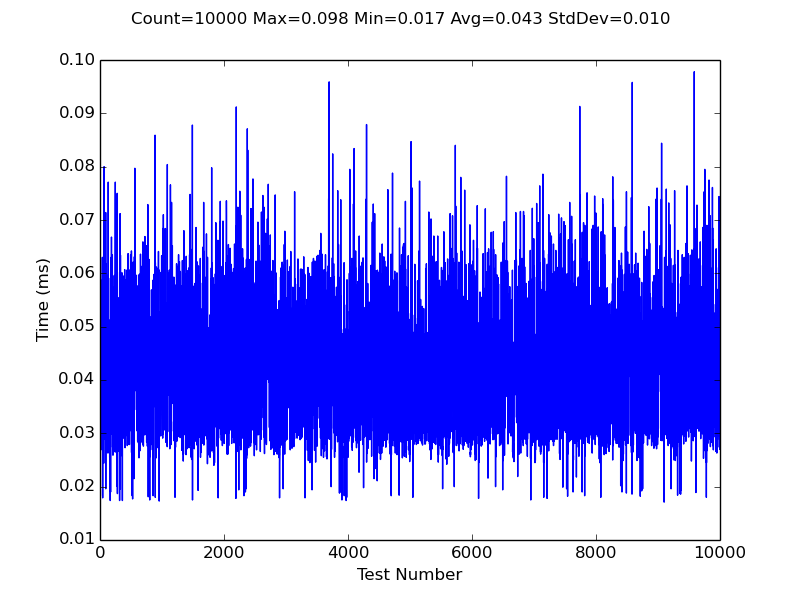
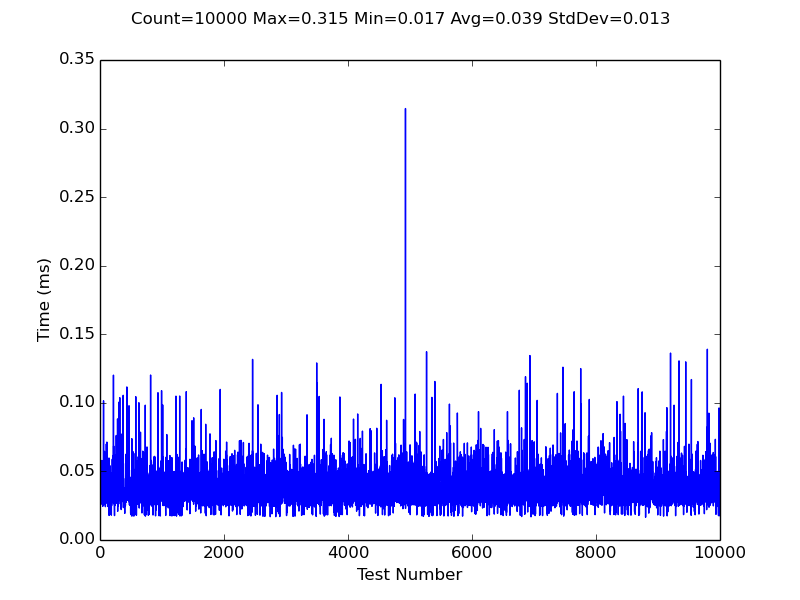
Added boost named mutexes.  Fixed recursive anonymous boost mutexes

diff --git a/src/cpp_boostnamedmutex/cpp_boostnamedmutex.cpp b/src/cpp_boostnamedmutex/cpp_boostnamedmutex.cpp
@@ -5,8 +5,8 @@
 
 #include <unistd.h>
 
-#include <boost/interprocess/sync/interprocess_mutex.hpp>
-#include <boost/interprocess/sync/interprocess_recursive_mutex.hpp>
+#include <boost/interprocess/sync/named_mutex.hpp>
+#include <boost/interprocess/sync/named_recursive_mutex.hpp>
 
 #include "common_c_cpp.h"
 
@@ -15,14 +15,14 @@ static void* sem_thread_func( void* arg )
 	struct timespec actualAfterWaitTime;
 	struct timespec* returnedAfterWaitTime;
 	
-	( ( boost::interprocess::interprocess_mutex* ) arg )->lock( );
+	( ( boost::interprocess::named_mutex* ) arg )->lock( );
 
 	GetTime( &( actualAfterWaitTime ) );
 	
 	returnedAfterWaitTime = new struct timespec( );
 	memcpy( returnedAfterWaitTime, &( actualAfterWaitTime ), sizeof( struct timespec ) );
 	
-	( ( boost::interprocess::interprocess_mutex* ) arg )->unlock( );
+	( ( boost::interprocess::named_mutex* ) arg )->unlock( );
 	
 	pthread_exit( returnedAfterWaitTime );
 }
@@ -32,14 +32,14 @@ static void* sem_thread_func_recursive( void* arg )
 	struct timespec actualAfterWaitTime;
 	struct timespec* returnedAfterWaitTime;
 	
-	( ( boost::interprocess::interprocess_recursive_mutex* ) arg )->lock( );
+	( ( boost::interprocess::named_recursive_mutex* ) arg )->lock( );
 
 	GetTime( &( actualAfterWaitTime ) );
 	
 	returnedAfterWaitTime = new struct timespec( );
 	memcpy( returnedAfterWaitTime, &( actualAfterWaitTime ), sizeof( struct timespec ) );
 	
-	( ( boost::interprocess::interprocess_recursive_mutex* ) arg )->unlock( );
+	( ( boost::interprocess::named_recursive_mutex* ) arg )->unlock( );
 	
 	pthread_exit( returnedAfterWaitTime );
 }
@@ -54,10 +54,13 @@ int main( int argc, char* const argv[ ] )
 	std::cout << "C++" << std::endl;
 	if( params.start == DO_START )
 	{
-		std::cout << "boost_mutex_fast" << std::endl;
+		boost::interprocess::named_mutex::remove( "test_mutex" );
+		
+		std::cout << "boost_namedmutex_fast" << std::endl;
 		std::cout << "sem_unlock" << std::endl;
-		boost::interprocess::interprocess_mutex mutex;
-	
+		
+		boost::interprocess::named_mutex mutex( boost::interprocess::create_only, "test_mutex" );
+
 		for( i = 0; i < params.count; i++ )
 		{
 			mutex.lock( );
@@ -80,13 +83,18 @@ int main( int argc, char* const argv[ ] )
 			
 			delete afterWaitTime;
 		}
+		
+		boost::interprocess::named_mutex::remove( "test_mutex" );
 	}
 	else if( params.start == DO_END )
 	{
-		std::cout << "boost_mutex_recursive" << std::endl;
+		boost::interprocess::named_recursive_mutex::remove( "test_recursive_mutex" );
+		
+		std::cout << "boost_namedmutex_recursive" << std::endl;
 		std::cout << "sem_unlock" << std::endl;
-		boost::interprocess::interprocess_recursive_mutex mutex;
-	
+		
+		boost::interprocess::named_recursive_mutex mutex( boost::interprocess::create_only, "test_recursive_mutex" );
+
 		for( i = 0; i < params.count; i++ )
 		{
 			mutex.lock( );
@@ -109,6 +117,8 @@ int main( int argc, char* const argv[ ] )
 			
 			delete afterWaitTime;
 		}
+		
+		boost::interprocess::named_recursive_mutex::remove( "test_recursive_mutex" );
 	}
 	
 	return 0;
